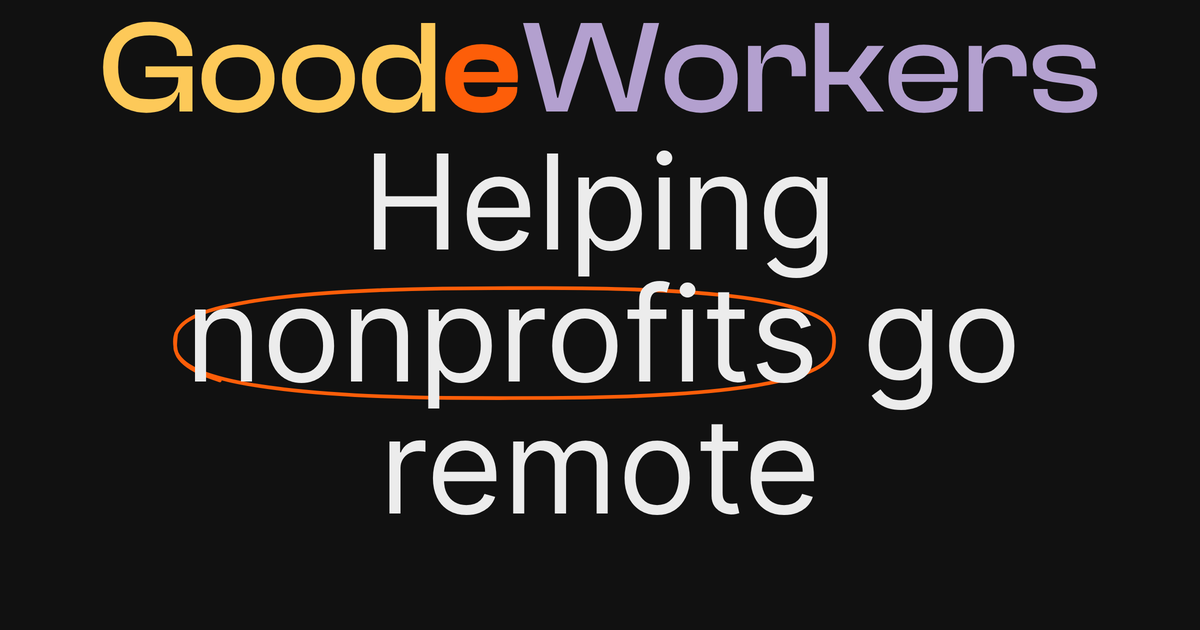
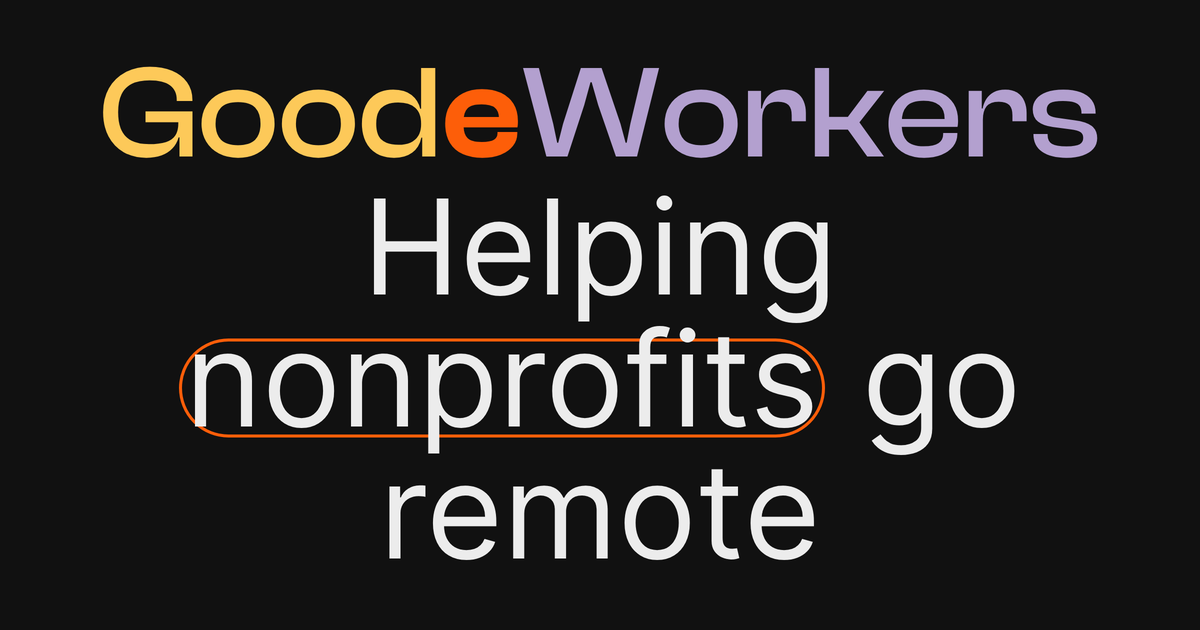
revert: encircled word back to the CSS outline ring
The hand-drawn SVG ring is rolled back to the clean rounded orange
outline (Encircled.astro, home.ts, global.css, og-image script and docs
as before). The ring engine behaviour is removed; the night street, card
icon pop, illustrations and footer lockup stay. OG image regenerated.

Changed region(s): [[0.0617, 0.0302, 0.925, 0.9048]]

diff --git a/src/scripts/motion/home.ts b/src/scripts/motion/home.ts
@@ -16,9 +16,9 @@ document.documentElement.dataset.home = '1';
 const $ = <T extends Element = HTMLElement>(selector: string, root: ParentNode = document) => root.querySelector<T>(selector);
 const $$ = (selector: string) => [...document.querySelectorAll<HTMLElement>(selector)];
 
-// A heading's hand-drawn ring is drawn by --ring on the heading, 1 to 0 (see ring() in engine.ts, which also redraws it on hover).
-const hasRing = (el: HTMLElement) => !!$('svg[data-ring]', el);
-const drawRing = () => ({ '--ring': 0, duration: 0.6, ease: ease.out });
+// The Encircled ring is the last, empty child of its span.relative (the Why arrow shares a wrapper but holds an svg).
+const ringOf = (el: HTMLElement) => $('span.relative > span:last-child:empty', el);
+const RING = { off: 'inset(0% 100% 0% 0% round 9999px)', on: 'inset(0% 0% 0% 0% round 9999px)' };
 
 onPage(({ intro, signal }) => {
   // A page fn runs on every page the router lands on, and only the homepage has this markup.
@@ -53,20 +53,18 @@ function pageIntro(intro: gsap.core.Timeline) {
       onSplit(self) {
         gsap.set(h1, { opacity: 1 }); // the chars wait below their line masks
         if (done) return;
+        const ring = ringOf(h1);
         const title = gsap
           .timeline({ onComplete: () => (done = true) })
-          // the wordmark's chars first, then the words of the second line (the ring draws around its word right after, below)
+          // the wordmark's chars first, then the words of the second line, then the ring draws around its word
           .from(self.chars.filter((c) => c.closest('.font-clash')), { yPercent: 110, duration: 0.8, stagger: { amount: 0.3 }, ease: ease.out }, 0)
           .from(self.words.filter((w) => !w.closest('.font-clash')), { yPercent: 110, duration: 0.7, stagger: { amount: 0.2 }, ease: ease.out }, 0.3);
+        if (ring) title.fromTo(ring, { clipPath: RING.off }, { clipPath: RING.on, duration: 0.55, ease: ease.out, clearProps: 'clipPath' }, 0.6);
         intro.add(title, 0);
         return title; // SplitText reverts it on a re-split and carries its progress over
       },
     });
   }
-
-  // On the intro itself, not in the title above: SplitText reverts that one on every re-split (a resize after the intro, say), which
-  // would take the drawn ring back to undrawn. The words of the second line have mostly landed by 0.6 s.
-  if (h1 && hasRing(h1)) intro.fromTo(h1, { '--ring': 1 }, drawRing(), 0.6);
 
   const ledes = $$('[data-intro="lede"]');
   const pills = $$('[data-intro="cta"]');
@@ -115,15 +113,16 @@ function heroWindow() {
 }
 
 // Zentry's title: the words swing in from the side in 3D. Perspective rides on each word (nested spans would
-// stop a perspective on the heading from reaching them). CSS keeps the words at opacity 0 and the ring undrawn until their tween.
+// stop a perspective on the heading from reaching them). CSS keeps the words and the ring at opacity 0 until their tween.
 function titles() {
   for (const h of $$('[data-title]')) {
+    const ring = ringOf(h);
     const { words } = SplitText.create(h, { type: 'words' });
     gsap.set(h, { opacity: 1 });
     gsap.set(words, { x: 10, y: 51, z: -60, rotationY: 60, rotationX: -40, transformOrigin: '50% 50% -150px', transformPerspective: 1000 });
     const tl = gsap.timeline({ scrollTrigger: { trigger: h, start: '100 bottom', end: 'center bottom', toggleActions: 'play none none reverse' } });
     tl.to(words, { opacity: 1, x: 0, y: 0, z: 0, rotationX: 0, rotationY: 0, ease: 'power2.inOut', stagger: 0.02 });
-    if (hasRing(h)) tl.fromTo(h, { '--ring': 1 }, drawRing(), '-=0.2');
+    if (ring) tl.to(ring, { opacity: 1, duration: 0.6, ease: ease.soft }, '-=0.2');
     tl.set(h, { overflowX: 'visible' }); // landed: stop clipping, so the Why arrow may overhang the heading
   }
 }

diff --git a/src/scripts/motion/engine.ts b/src/scripts/motion/engine.ts
@@ -111,7 +111,6 @@ export function initPage({ hold = false }: { hold?: boolean } = {}) {
     each('[data-reveal]', reveal);
     each('[data-stagger]', stagger, (el) => [...el.children]);
     each('svg[data-draw]', draw);
-    each('svg[data-ring]', ring);
     each('[data-parallax]', parallax);
     each('[data-roll]', roll);
     if (!isTouch()) each('[data-tilt]', tilt);
@@ -486,41 +485,6 @@ function draw(svg: HTMLElement) {
     { strokeDasharray: 1, strokeDashoffset: 1 },
     { strokeDashoffset: 0, clearProps: 'strokeDasharray,strokeDashoffset', duration: 1.2, stagger: 0.12, ease: ease.out },
   );
-}
-
-// svg[data-ring] (Encircled.astro): a hand-circled word draws itself, as --ring on its heading goes from 1 (hidden) to 0 (drawn);
-// the CSS in global.css turns that into the pen stroke. The heading carries it, not the svg: SplitText rebuilds every node inside a
-// heading when it reverts or re-splits, the heading itself stays. The home intro and the 3D titles draw their rings on their own
-// timelines (home.ts); any other heading draws it once, when the ring reaches the reveal line and a beat after its words (they rise
-// over 1.2 s, mostly in the first half). Pointing at the heading, or focus moving into it, draws the ring again, once per visit
-// and only once it has been drawn.
-function ring(svg: HTMLElement) {
-  const heading = svg.closest<HTMLElement>('h1, h2, h3, h4, h5, h6');
-  if (!heading) return;
-  if (!heading.matches('[data-title], [data-intro]')) {
-    const pen = () => heading.querySelector<HTMLElement>('svg[data-ring]') ?? heading; // looked up again: a re-split replaces the svg
-    const hold = holds(pen(), 0.85);
-    const tween = gsap.fromTo(
-      heading,
-      { '--ring': 1 },
-      {
-        '--ring': 0,
-        duration: 0.6,
-        delay: 0.35,
-        ease: ease.out,
-        paused: hold,
-        scrollTrigger: hold ? undefined : { trigger: heading, start: () => startAt(pen(), 0.85)(), once: true },
-      },
-    );
-    if (hold) withIntro(() => tween.play());
-  }
-  const again = () => {
-    if (parseFloat(getComputedStyle(heading).getPropertyValue('--ring')) === 0) {
-      gsap.fromTo(heading, { '--ring': 1 }, { '--ring': 0, duration: 0.8, ease: ease.out, overwrite: 'auto' });
-    }
-  };
-  if (!isTouch()) listen(heading, 'pointerenter', again);
-  listen(heading, 'focusin', again);
 }
 
 // data-parallax="0.15": y drifts from -n to +n viewport heights across the element's pass (negative n reverses).

diff --git a/src/styles/global.css b/src/styles/global.css
@@ -89,25 +89,6 @@ h2 {
   margin-bottom: -0.08em;
 }
 
-/* The pen of a circled word goes a little beyond the word's box (Encircled.astro): on a line that starts or ends with the word, beyond
-   the edge of the line's mask as well, which would cut it for as long as the heading reveals. The mask only has to clip the vertical
-   slide, so where a ring sits its horizontal clip is lifted (!important: SplitText writes overflow: clip inline). */
-.split-line-mask:has(.encircled) {
-  overflow-x: visible !important;
-}
-
-/* The hand-circled word draws itself (Encircled.astro, ring() in engine.ts). Its pen stroke is revealed through a mask: a thick
-   stroke swept along the same path, normalised by pathLength to one unit and dashed 1 on, 2 off, so a dashoffset of 1 hides all of
-   it and 0 shows all of it. (The visible ring cannot be the dashed path: with vector-effect: non-scaling-stroke the dashes count
-   screen pixels but pathLength scales them by the user-space length, so the pen would stop short or never start.) --ring, 1
-   hidden to 0 drawn, lives on the heading: SplitText rebuilds every node inside a heading when it reverts, and a node's own state
-   would be lost. Without it the ring is hidden, so a heading that has not been revealed yet shows none. Gated on html.motion like
-   every hidden state here: no JS, reduced motion and the og-image script see the whole ring. */
-.motion :is(h1, h2, h3, h4, h5, h6) svg[data-ring] mask path {
-  stroke-dasharray: 1 2;
-  stroke-dashoffset: var(--ring, 1);
-}
-
 /* Lenis owns smooth scrolling when motion is on; the rule at the top stays for the no-JS case.
    The rest is lenis/dist/lenis.css, minus the autoToggle rule (that option is off). */
 html.motion {

diff --git a/DESIGN.md b/DESIGN.md
@@ -201,7 +201,7 @@ The system is flat. It builds depth from the contrast between the two grounds, f
 
 **Key Characteristics:**
 - Two grounds: #111 near-black and the #F8F8F8 rounded sheet, alternating down the page.
-- One hand-drawn orange ring around one word per heading.
+- One orange ring around one word per heading.
 - Accents work as fills (pills, cards, value tiles, door cards), as dots and lines, or as a state (hover, current page). They never set reading text.
 - Four value colours with fixed roles: Openness yellow, Autonomy lavender, Care orange, Solidarity pantone.
 - A series of windows at night (one drawing per value, plus the hospital): pen line and one light, inline SVG that draws itself in and breathes at rest.
@@ -309,7 +309,7 @@ The system is flat. Depth comes from the two grounds, from panels overlapping (h
 - **Cards** (16px): Square-aspect feature cards and team photos.
 - **Colour fields** (16px → 24px from `lg`): value tiles and door cards. A tile clips its illustration.
 - **Arrow circles** (44px, fully round): a 2px `currentColor` outline on value tiles, a solid black disc on door cards, each holding a 20px SVG arrow.
-- **Circles:** 10px kind dots, and the encircled-word ring: a hand-drawn orange pen loop around the word, 2px wide (1.5px below `md`). See Components.
+- **Circles:** 10px kind dots, and the encircled-word ring (1px, 2px from `md`) drawn as a fully rounded orange outline covering the lower ~62% of the word.
 - **Fields** have no radius and no box, only a 2px bottom rule.
 - **Borders** are 2px black on the light sheet (pills, field rule, table header rule), 2px orange for the nav Contact, 1px black/10% for row hairlines on paper.
 - **Drawn line:** the hospital's heartbeat is the one orange line on the surfaces: a solid 4-unit stroke in the drawing's own scale, square at its two ends, drawn in once by `data-draw`, with a bolder short segment that travels along it (see Illustrations).
@@ -354,7 +354,6 @@ The engine in `src/scripts/motion/engine.ts` reads these:
 - `data-navbar` and `data-nav-static`: the floating nav hides on scroll down past 80px and returns on scroll up. The static flag, set on the job boards `<main>`, keeps it from hiding.
 - `data-logo`: the logo's star burst turns while the pointer or focus is on the logo. The footer logo wears it on its wrapper: that logo is decorative and takes no focus, so its star turns on hover only.
 - `data-title`: the 3D word swing on a homepage H2, read by `home.ts` (see Homepage choreography). A ringed word inside it never wraps.
-- `data-ring` (on the `<svg>` inside an Encircled word): the word's pen loop draws itself as it comes into view, and again on pointer enter or focus. See Generative drawings.
 - `#lamp`: the lamp layer, moved through `--lamp-x` and `--lamp-y`.
 - `data-street` (on the `<svg>` of the night street behind the footer logo): `street.ts` lights and flickers its windows, and the street follows `--lamp-x`. See Generative drawings.
 
@@ -364,7 +363,7 @@ Home only, in `src/scripts/motion/home.ts`, with the hooks `data-intro`, `data-w
 
 - **Intro.** One timeline that starts when the fonts are ready (600ms at most) and runs 1.3s at most. The wordmark's letters rise first (0.8s). The second line of the H1 rises from 0.3s, and the orange ring draws around its word from 0.6s. The two lede paragraphs fade up from 0.45s, the CTA pills settle in (up 24px, scale .96 to 1) from 0.5s, and the nav fades in last.
 - **Hero window.** The sheet closes to an inset window: 14% of its height from the top, 6% of its width at each side and 10% of its height at the bottom. On desktop each inset stops where the content starts, so the heading, lede and cards are never clipped. Below 640px it closes to 6% at the top and sides and 4% at the bottom, with 24px corners (40px above). It opens to the sheet's own corner radius. The scrub runs from the sheet's top reaching 90% of the viewport to its top reaching 35%. The CTA pills sit outside the sheet, so they are never clipped.
-- **3D titles.** The five section titles (hero, Why, About, the values section and the footer contact) split into words that start turned in 3D (`translate3d(10px, 51px, -60px) rotateY(60deg) rotateX(-40deg)`) and settle with `power2.inOut`, 0.02s apart. They play as the heading comes up from the bottom of the viewport and reverse when it scrolls back past. The Encircled ring draws last, starting 0.2s before the last word lands.
+- **3D titles.** The five section titles (hero, Why, About, the values section and the footer contact) split into words that start turned in 3D (`translate3d(10px, 51px, -60px) rotateY(60deg) rotateX(-40deg)`) and settle with `power2.inOut`, 0.02s apart. They play as the heading comes up from the bottom of the viewport and reverse when it scrolls back past. The Encircled ring fades in last.
 - **Cards.** The service cards and the Why cards are `data-stagger` grids. Each card rises 32px and scales up from .96 over 1s, 60ms apart, once the grid's top reaches 80% of the viewport. Each card is also `data-tilt`.
 - **Why arrow.** The arrow is inline SVG. Its white mask path (`data-draw`) sweeps along the dashed arrow as the arrow scrolls from 80% to 40% of the viewport, and the head (`data-head`) fades in last.
 - **About.** The inset card rises (`data-reveal="up"`), the paragraphs split into lines, and the benefits rise one after another. The two photos drift in opposite directions on their own wrappers (`data-parallax` 0.08 and -0.08). The photo pair (`data-story`) tilts up to 10 degrees toward the pointer over 0.3s (`power1.inOut`) and levels again on leave. Touch skips the tilt.
@@ -386,25 +385,24 @@ Navigation uses Astro view transitions with a paper curtain (`#curtain`, a #F8F8
 
 ### Generative drawings
 
-Two drawings are generated by code rather than stored: the hand-circled word and the night street. `src/lib/gen.ts` is the toolkit: a seeded generator (an FNV-1a hash of the seed text, then xorshift32), triangular draws, 1D value noise, jitter, a hand-drawn `loop` (with `start` and `power` options), a pen brush (`penD`) and Catmull-Rom curves (`smoothD`, `polylineD`). No stored art: the same seed draws the same picture.
+One drawing is generated by code rather than stored: the night street. `src/lib/gen.ts` is the toolkit: a seeded generator (an FNV-1a hash of the seed text, then xorshift32), triangular draws, 1D value noise, jitter, a hand-drawn `loop` (with `start` and `power` options), a pen brush (`penD`) and Catmull-Rom curves (`smoothD`, `polylineD`). No stored art: the same seed draws the same picture.
 
-- **Ring.** `Encircled.astro` builds each word's loop from the word, so the same word always gets the same ring, and EN and FR differ. The engine's `ring()` draws it once, as its heading comes into view, 0.35s after the words start to rise (0.6s, `expo.out`). Pointer enter or focus inside the heading redraws it (0.8s) once it is drawn; the pointer does nothing on touch. The home H1 draws on the intro at 0.6s, and the title rings draw 0.2s before their last word lands. Without JS, under reduced motion and in the social card the ring is drawn whole.
 - **Street.** `NightStreet.astro` draws the skyline behind the footer logo once at build time, seeded by the page path, so each page has its own: 11 to 16 buildings, 3 to 9 floors, 10 by 14 windows with 12 to 18% lit (yellow, one or two orange), rooftop details, a 1px ashgray pen at 18%, and at most 208 elements. The footer holds the whole drawing at 75%, so the brightest window reads 42% and the street stays quiet behind the logo's grey letters. `street.ts` runs one ticker callback while the band is on screen: a slow flicker, the lamp warming the windows near it (within 12% of the viewport width at most; touch follows the scroll), and one window changing every 20 to 40s, written in 0.05 steps. Static under reduced motion and without JS.
 - **Icons.** The hero and Why card icons are stored filled SVG shapes, and `data-pop` grows each from 60% to full size with its card.
 
-The ring and the street are not part of the Windows at night series (see Illustrations), so that series' drawing rules do not apply to them: the ring is revealed by a mask and a dash offset, as drawn lines are, and the street has its own 1px pen.
+The street is not part of the Windows at night series (see Illustrations), so that series' drawing rules do not apply to it: it has its own 1px pen.
 
 ### Reduced motion and no JS
 
-`html.motion` is set before first paint by an inline script in `<head>`, and only when JS runs and reduced motion is off. Everything that starts hidden is hidden by CSS gated on that class, by opacity, so without JS or under reduced motion the page is complete and still. Under reduced motion the engine skips its motion: no Lenis, scrubs, intro, tilts, logo spin, letter roll or lamp motion. The lamp rests as a still glow at 50% across and 40% down, and hover colours, underlines and the CTA scale stay. A failsafe covers an engine that never boots: after 4s the inline script sets `data-engine="off"` and removes `motion`, so content cannot stay hidden. It also covers a homepage chunk that fails alone: `home.ts` sets `data-home` on load, and a page with `[data-intro]` but no `data-home` after 4s loses `motion` too. The illustrations follow the same gate: with motion off a drawing shows whole (frames drawn, light on, nothing moving), and a drawing whose script fails shows itself whole. The ring and the street follow the same gate: the ring shows whole, and the street keeps its static drawing. The nav's transparent top state (the lamp shows through the bar) holds in every mode that has JS, reduced motion included, since the engine toggles `is-floating` in all of them. Without JS, or once the failsafe has switched the engine off, the bar stays solid.
+`html.motion` is set before first paint by an inline script in `<head>`, and only when JS runs and reduced motion is off. Everything that starts hidden is hidden by CSS gated on that class, by opacity, so without JS or under reduced motion the page is complete and still. Under reduced motion the engine skips its motion: no Lenis, scrubs, intro, tilts, logo spin, letter roll or lamp motion. The lamp rests as a still glow at 50% across and 40% down, and hover colours, underlines and the CTA scale stay. A failsafe covers an engine that never boots: after 4s the inline script sets `data-engine="off"` and removes `motion`, so content cannot stay hidden. It also covers a homepage chunk that fails alone: `home.ts` sets `data-home` on load, and a page with `[data-intro]` but no `data-home` after 4s loses `motion` too. The illustrations follow the same gate: with motion off a drawing shows whole (frames drawn, light on, nothing moving), and a drawing whose script fails shows itself whole. The street follows the same gate: it keeps its static drawing. The nav's transparent top state (the lamp shows through the bar) holds in every mode that has JS, reduced motion included, since the engine toggles `is-floating` in all of them. Without JS, or once the failsafe has switched the engine off, the bar stays solid.
 
 ### Accessibility
 
-- Hover effects also run on focus: the card highlight, the letter roll, the logo spin, the ring's redraw and the CTA scale. The focus ring itself does not change.
+- Hover effects also run on focus: the card highlight, the letter roll, the logo spin and the CTA scale. The focus ring itself does not change.
 - The cursor is the native one. There is no custom cursor.
 - The motion's hover rules sit inside `@media (hover: hover)`, and so do Tailwind's `hover:` utilities (`future.hoverOnlyWhenSupported`), so a tap never leaves a hover state stuck. Touch devices get no tilt, and the lamp follows the scroll.
 - Hidden states use opacity, never `visibility` or `display`. A link that is still hidden stays in the tab order, and focus on it plays its reveal at once (and so for the form's field rules and the job-board rows), even when it is already on screen below the trigger line, so its ring is never invisible. Whatever sits on the first screen at load is revealed at load.
-- Decorative layers are `aria-hidden`: the lamp, the letter roll's second row, the Why arrow, the ring's pen, the night street and the footer's closing logo. Split headings keep their text as an accessible name.
+- Decorative layers are `aria-hidden`: the lamp, the letter roll's second row, the Why arrow, the night street and the footer's closing logo. Split headings keep their text as an accessible name.
 - The mobile menu keeps Escape and the scroll lock (Lenis stops while it is open), and the nav never hides while the menu is open or focus is inside it.
 
 ### Named Rules
@@ -444,7 +442,7 @@ Big pill buttons are made to be pressed with the whole hand.
 - **Footer logo:** the page ends on the logotype itself, drawn and not set: the inline `goodeworkers-line.svg`, the logo's own shapes on one line (it carries its provenance in a comment; the navbar keeps the two-line `goodeworkers.svg`), on the #111 ground (`BRAND.md`: black or white grounds only, so the night street behind it stays a faint pen and dim windows). Centred, `min(100%, 72rem)` wide at about 9:1, `aria-hidden`. Its five paths stagger in on view and the star burst turns on hover (see Motion).
 
 ### Encircled Word (signature)
-A single word in a heading is ringed by a hand-drawn orange pen loop, with 6px horizontal padding and the word set bold. The loop is drawn from the word itself (see Generative drawings), 2px wide (1.5px below `md`) at any size. In the social card (`scripts/og-image.mjs`) the pen is drawn whole and its width scales with the type. The job-boards content model stores each heading as `before / encircled / after`, so the circled word is chosen in copy and not hard-coded.
+A single word in a heading is wrapped in a fully rounded orange outline, with 6px horizontal padding and the word set bold. The job-boards content model stores each heading as `before / encircled / after`, so the circled word is chosen in copy and not hard-coded.
 
 ### Comparison Table Row (job-boards)
 - The name is ClashDisplay 600 at 18–20px. It underlines on hover (4px offset, 2px decoration) and dims to black/60 once `:visited`, so the reader sees where they stopped.
